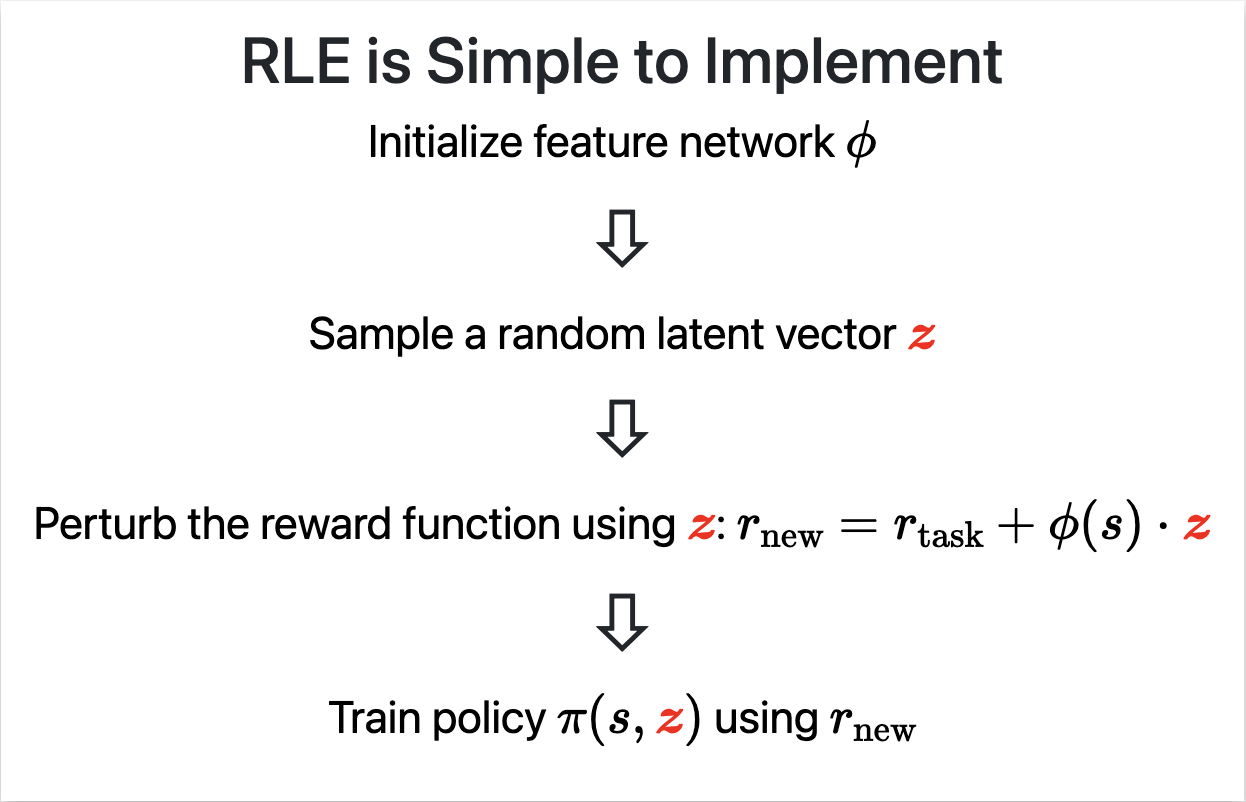
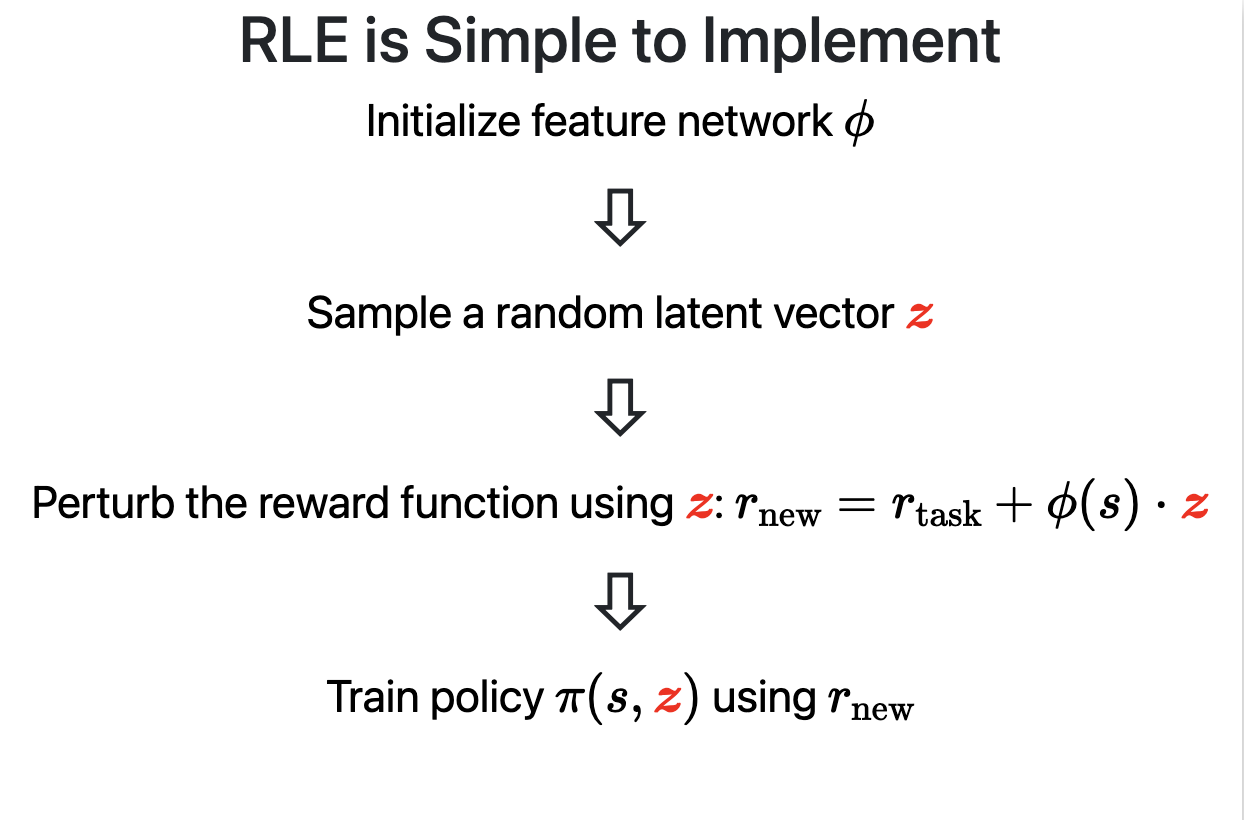
align

diff --git a/random-latent-exploration/index.html b/random-latent-exploration/index.html
@@ -93,6 +93,7 @@
             box-shadow: 0 0.25rem 0.5rem rgba(0, 0, 0, 0.259);
             text-align: center;
             transition: transform 0.3s ease; /* Animation on hover */
+            height: auto;
             width: 100%;
             /* max-width: 400px;  do it in rem*/
             /* margin-bottom: 20px; */
@@ -447,7 +448,7 @@
             <!-- TODO: Replace the two videos with a single card indicating the formulation and implementation -->
             <div class="parent-container">
                 <div class="card-container" style="display: flex;">
-                    <div class="strategy-box" style="width: 50%; text-align: center; height: 25em; padding: 0rem;">
+                    <div class="strategy-box" style="width: 50%; text-align: center; height: auto; padding: 0rem;">
                         <img src="rsc/our_method_rle.png" alt="Random Latent Exploration leads to diverse trajectories in one iteration." style="width: 100%;">
                         <!-- <h4>Our Method: Random Latent Exploration (RLE)</h4> -->
                         <!-- <p>Perturb the reward function randomly</p> -->
@@ -459,29 +460,29 @@
                         <!-- <p class="highlight">Visit different regions of the environment with the same policy!</p> -->
                         <!-- <p class="highlight">Allows the same policy to visit different regions of the environment!</p> -->
                     </div>
-                    <div class="strategy-box" style="width: 50%; text-align: center; height: 25em; padding: 0rem;">
+                    <div class="strategy-box" style="width: 50%; text-align: center; height: auto; padding: 0rem;">
                         <img src="rsc/rle_simple_implement.png" alt="Implementation of RLE" style="width: 100%;">
                         <!-- <h2>RLE is Simple to Implement</h2> -->
 
-                        <!-- <p style="line-height: 1.2em; font-size: 1.4em;"> -->
-                            <!-- Initialize feature network \(\phi\) -->
-                        <!-- </p> -->
+                        <!-- <p style="line-height: 1.2em; font-size: 1.4em;">
+                            Initialize feature network \(\phi\)
+                        </p> -->
                         <!-- <div class="arrow">&#x21e9;</div> -->
-                        <!-- <p style="line-height: 1.2em; font-size: 1.4em;"> -->
-                            <!-- Sample a random latent vector \(\textcolor{red}{\boldsymbol{z}}\) -->
-                        <!-- </p> -->
+                        <!-- <p style="line-height: 1.2em; font-size: 1.4em;">
+                            Sample a random latent vector \(\textcolor{red}{\boldsymbol{z}}\)
+                        </p> -->
                         <!-- <div class="arrow">&#x21e9;</div> -->
-                        <!-- <p style="line-height: 1.2em; font-size: 1.4em;"> -->
-                            <!-- Perturb the reward function using \(\textcolor{red}{\boldsymbol{z}}\):  -->
-                            <!-- \(r_{\mathrm{new}} = r_{\mathrm{task}} + \phi(s) \cdot \textcolor{red}{\boldsymbol{z}}\) -->
-                        <!-- </p> -->
+                        <!-- <p style="line-height: 1.2em; font-size: 1.4em;">
+                            Perturb the reward function using \(\textcolor{red}{\boldsymbol{z}}\): 
+                            \(r_{\mathrm{new}} = r_{\mathrm{task}} + \phi(s) \cdot \textcolor{red}{\boldsymbol{z}}\)
+                        </p> -->
                         <!-- <div class="arrow">&#x21e9;</div> -->
                         <!-- <p style="line-height: 6em;">
                             Resample \(\boldsymbol{z}\) on episode termination or after a fixed number of time steps
                         </p> -->
-                        <!-- <p style="line-height: 1.2em; font-size: 1.4em;"> -->
-                            <!-- Train policy \(\pi(s,\textcolor{red}{\boldsymbol{z}})\) using \(r_{\mathrm{new}}\) -->
-                        <!-- </p> -->
+                        <!-- <p style="line-height: 1.2em; font-size: 1.4em;">
+                            Train policy \(\pi(s,\textcolor{red}{\boldsymbol{z}})\) using \(r_{\mathrm{new}}\)
+                        </p> -->
                     </div>
                 </div>
             </div>
